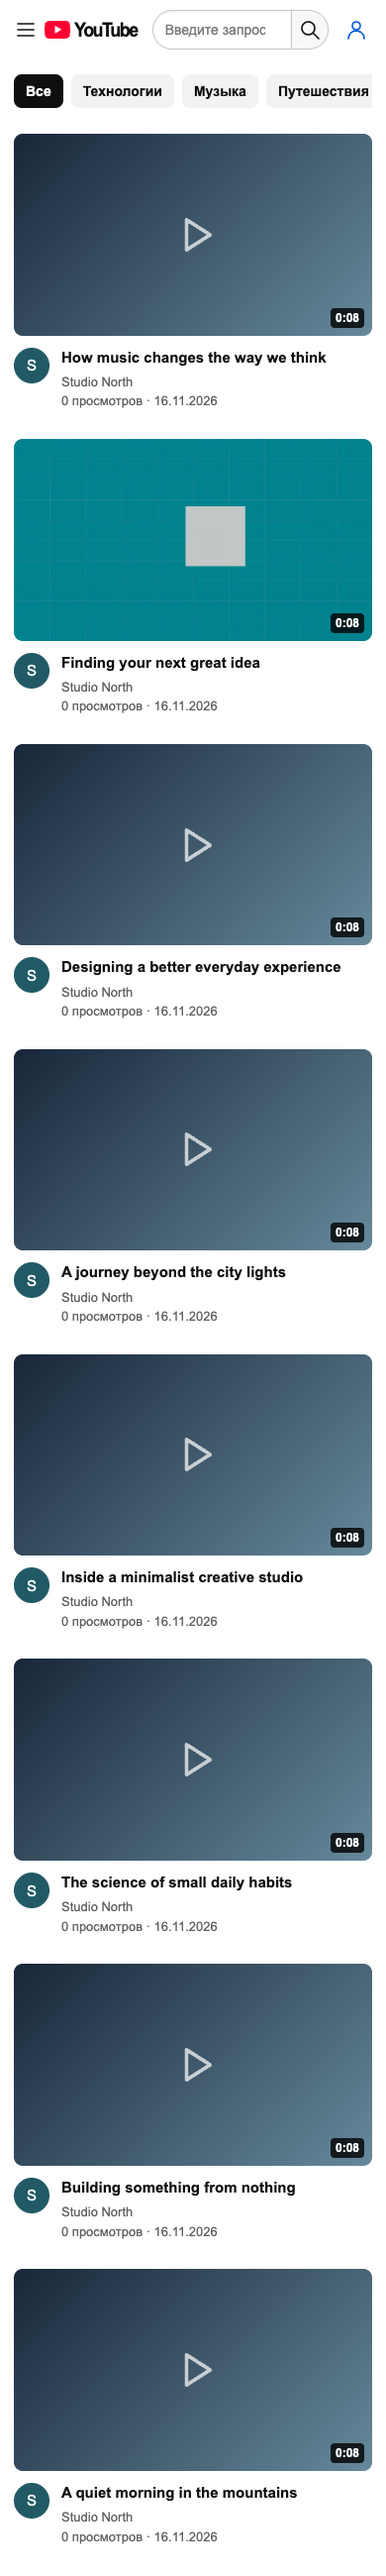
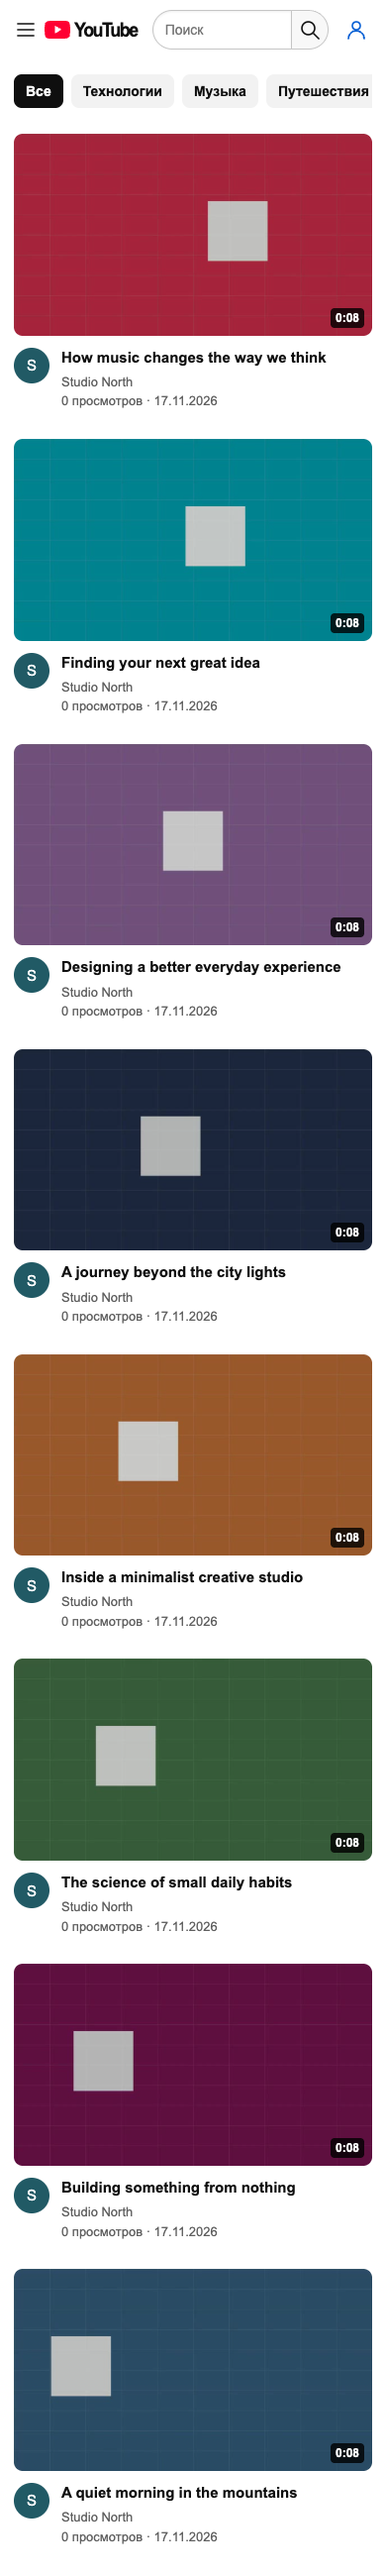
feat: publish temporary HTTPS demo and verify complete browser rendering

diff --git a/frontend/index.html b/frontend/index.html
@@ -1,3 +1,3 @@
 <!doctype html>
 <html lang="ru"><head><meta charset="UTF-8"><meta name="viewport" content="width=device-width,initial-scale=1"><meta name="theme-color" content="#ffffff"><title>YouTube — видео</title><link rel="stylesheet" href="/static/style.css"></head>
-<body><a class="skip" href="#main">К содержимому</a><header class="header"><div class="brand-group"><button class="icon-btn" id="menu" aria-label="Открыть меню" aria-controls="sidebar" aria-expanded="false"></button><a class="logo" href="#/" aria-label="YouTube, главная"><svg viewBox="0 0 90 63" aria-hidden="true"><path fill="#f03" d="M88 10c-1-5-5-8-10-9C66 0 45 0 45 0S24 0 12 1C7 2 3 5 2 10 0 20 0 31 0 31s0 12 2 22c1 5 5 8 10 9 12 1 33 1 33 1s21 0 33-1c5-1 9-4 10-9 2-10 2-22 2-22s0-11-2-21Z"/><path fill="#fff" d="m36 45 24-14-24-14z"/></svg><strong>YouTube</strong><sup>RU</sup></a></div><form class="search" id="search-form" role="search"><input id="search-input" type="search" placeholder="Введите запрос" aria-label="Поиск видео" maxlength="200"><button aria-label="Найти" id="search-button"></button></form><div class="header-actions" id="header-actions"></div></header><aside class="sidebar" id="sidebar" aria-label="Основная навигация"></aside><button id="nav-overlay" aria-label="Закрыть меню" tabindex="-1"></button><main id="main" tabindex="-1"></main><div id="toast" role="status" aria-live="polite"></div><dialog id="dialog"><button class="icon-btn dialog-close" aria-label="Закрыть" id="dialog-close">×</button><div id="dialog-body"></div></dialog><script src="/static/app.js" defer></script></body></html>
+<body><a class="skip" href="#main">К содержимому</a><header class="header"><div class="brand-group"><button class="icon-btn" id="menu" aria-label="Открыть меню" aria-controls="sidebar" aria-expanded="false"></button><a class="logo" href="#/" aria-label="YouTube, главная"><svg viewBox="0 0 90 63" aria-hidden="true"><path fill="#f03" d="M88 10c-1-5-5-8-10-9C66 0 45 0 45 0S24 0 12 1C7 2 3 5 2 10 0 20 0 31 0 31s0 12 2 22c1 5 5 8 10 9 12 1 33 1 33 1s21 0 33-1c5-1 9-4 10-9 2-10 2-22 2-22s0-11-2-21Z"/><path fill="#fff" d="m36 45 24-14-24-14z"/></svg><strong>YouTube</strong><sup>RU</sup></a></div><form class="search" id="search-form" role="search"><input id="search-input" type="search" placeholder="Поиск" aria-label="Поиск видео" maxlength="200"><button aria-label="Найти" id="search-button"></button></form><div class="header-actions" id="header-actions"></div></header><aside class="sidebar" id="sidebar" aria-label="Основная навигация"></aside><button id="nav-overlay" aria-label="Закрыть меню" tabindex="-1"></button><main id="main" tabindex="-1"><div class="loading" role="status"><span class="spinner"></span><p>Загрузка…</p></div></main><div id="toast" role="status" aria-live="polite"></div><dialog id="dialog"><button class="icon-btn dialog-close" aria-label="Закрыть" id="dialog-close">×</button><div id="dialog-body"></div></dialog><script src="/static/app.js" defer></script></body></html>

diff --git a/frontend/tests/e2e.spec.js b/frontend/tests/e2e.spec.js
@@ -11,6 +11,16 @@ async function capture(page,options){
   await page.screenshot(options);
 }
 
+async function waitForHomeCards(page){
+  const cards=page.locator('.video-grid .video-card');
+  await expect(cards.first()).toBeVisible();
+  const count=await cards.count();
+  // Exercise normal scrolling so lazy thumbnails below the viewport load too.
+  await cards.last().scrollIntoViewIfNeeded();
+  await expect.poll(()=>page.locator('.video-grid img').evaluateAll((images,expected)=>images.length===expected&&images.every(i=>i.complete&&i.naturalWidth>0),count)).toBe(true);
+  await page.evaluate(()=>window.scrollTo(0,0));
+}
+
 // Uses actual backend, database, object storage and ffmpeg worker. No request mocks.
 test('registration → upload → playback → like/comment → privacy and channel', async ({page, browser}, testInfo) => {
   const failures=[];
@@ -88,6 +98,7 @@ test('registration → upload → playback → like/comment → privacy and chan
     await page.locator('#dialog').getByRole('button',{name:'Создать',exact:true}).click();
     await expect(page.getByRole('heading',{name:`Playlist ${unique}`})).toBeVisible();
     await page.goto('/');
+    await waitForHomeCards(page);
     await capture(page,{path:testInfo.outputPath('home-desktop.png'),fullPage:true});
     await page.getByLabel('Поиск видео',{exact:true}).fill('unlikely-no-video-'+unique);
     await page.getByRole('button',{name:'Найти',exact:true}).click();
@@ -101,6 +112,7 @@ test('registration → upload → playback → like/comment → privacy and chan
 
 test('mobile home has no horizontal overflow',async({page},testInfo)=>{
   await page.setViewportSize({width:390,height:844});await page.goto('/');
+  await waitForHomeCards(page);
   await expect(page.locator('.loading')).toHaveCount(0);
   expect(await page.evaluate(()=>document.documentElement.scrollWidth<=window.innerWidth)).toBe(true);
   await capture(page,{path:testInfo.outputPath('home-mobile.png'),fullPage:true});
@@ -132,7 +144,11 @@ test('moderator and administrator screens enforce roles and update sessions',asy
     await page.goto('/#/admin');
     await expect(page.getByRole('heading',{name:'Доступ ограничен'})).toBeVisible();
     expect((await page.request.get('/api/admin/users')).status()).toBe(403);
+    const loggedOut=page.waitForResponse(r=>r.url().endsWith('/api/auth/logout')&&r.request().method()==='POST');
     await page.locator('#sidebar').getByRole('button',{name:'Выйти',exact:true}).click();
+    expect((await loggedOut).status()).toBe(204);
+    await expect(page.locator('#header-actions').getByRole('button',{name:'Войти'})).toBeVisible();
+    expect((await page.request.get('/api/auth/me')).status()).toBe(401);
     await login('admin@demo.local');
     await page.locator('#sidebar').getByRole('link',{name:'Пользователи',exact:true}).click();
     await expect(page.getByRole('heading',{name:'Управление пользователями'})).toBeVisible();

diff --git a/docs/DEMO.md b/docs/DEMO.md
@@ -1,0 +1,47 @@
+# Временное рабочее демо
+
+[https://forest-crm-imagine-downloading.trycloudflare.com](https://forest-crm-imagine-downloading.trycloudflare.com)
+
+Демо опубликовано и проверено 17 ноября 2026 года. Можно смотреть открытые
+видео без входа. Для загрузки, комментариев, лайков и плейлистов создайте свой
+тестовый аккаунт через кнопку «Войти» → «Создать аккаунт».
+
+Это бесплатная временная ссылка Cloudflare Quick Tunnel: она работает, пока
+Mac, Docker VM и процесс cloudflared включены и подключены к интернету.
+После остановки туннеля ссылка прекращает работать; следующий запуск выдаст
+другой адрес. Это не постоянный хостинг и не обещание доступности 24/7.
+Описание сервиса: [https://developers.cloudflare.com/tunnel/get-started/quick-tunnels/](https://developers.cloudflare.com/tunnel/get-started/quick-tunnels/).
+
+В демо предел одного файла — **20 MiB**. PostgreSQL и MinIO не опубликованы
+наружу; посетитель обращается только к API приложения через HTTPS. Включены
+Secure/HttpOnly cookie, проверка Origin и текущие ACL. Нативные AI-сессии,
+`.env` и `.git` не доступны через сайт. Пароли администратора и модератора
+не опубликованы: они хранятся только в приватном `.env` развертывания.
+
+Проверено через этот внешний HTTPS-адрес: HTTP smoke с ролями и приватностью,
+загрузка/кодирование/воспроизведение/перемотка, 3 браузерных сценария,
+Secure/HttpOnly/SameSite cookie, выход из аккаунта, отклонение чужого Origin.
+Семь снимков desktop/mobile проверил агент GPT-6 Luna.
+
+## Как повторить на своём развертывании
+
+1. Разверните и заполните демо: `bash scripts/deploy.sh`.
+2. Установите cloudflared из официального источника и запустите:
+
+```sh
+cloudflared tunnel --no-autoupdate --protocol http2 --url http://127.0.0.1:8080
+```
+
+3. В приватном `.env` задайте полученный адрес как `PUBLIC_ORIGIN`,
+   `SEED_BASE_URL` и `SMOKE_BASE_URL`; включите `COOKIE_SECURE=true`.
+4. Пересоздайте app/worker без удаления томов:
+
+```sh
+docker compose up -d --no-build --wait app worker
+```
+
+При нестандартном порте используйте фактический `PORT` из `.env`.
+При нестандартном имени Compose-проекта передавайте его явно.
+Сначала заполняйте локальный стек, затем включайте HTTPS-cookie; повторный seed
+с HTTPS-cookie должен обращаться через `SEED_BASE_URL` с внешним HTTPS-адресом.
+Остановка cloudflared закрывает внешнюю ссылку, сохраняя данные в Docker-томах.

diff --git a/.agents/agents/team.md b/.agents/agents/team.md
@@ -20,3 +20,9 @@ Screenshot review agent: 01a1e538-54c1-7243-98da-d87ad18b820d, explicitly gpt-6-
 Agents return changes without committing. Root reviews and creates milestone commits. Root and non-screenshot agents use the inherited session model.
 
 The screenshot review was repeated after fixing watch/sidebar overlap and mobile role administration. Seven final rendered screenshots were inspected with no remaining critical visual findings. Native tool calls and reports belong to the unchanged session snapshots; this file is configuration/documentation, not dialogue.
+
+## Demo continuation on 2026-11-17
+
+Worker/runtime continuation agent: `worker_runtime`, session `01a1ea3d-365c-7d53-ba8d-c0a2da0c56ed`; inherited model, owns worker/DELETE lifecycle and real PostgreSQL/S3/FFmpeg regressions.
+Public HTTPS screenshot reviewer: `demo_screenshot_review`, session `01a1ea4c-dae7-7b92-9e27-60a261ff295f`; explicitly gpt-6-luna, reviews seven actual screenshots and does not edit source.
+Infrastructure agent resumed fixture work and created the validated cover-first MP4 generator. Root owns tunnel/deployment settings, browser tests, Git commits and final packaging. Native snapshots are selected explicitly; generated evidence is not a dialogue export.

diff --git a/ai-sessions/README.md b/ai-sessions/README.md
@@ -1,6 +1,6 @@
 # Native dialogue provenance
 
-The deliverable ZIP includes four JSONL files collected here as unchanged snapshots from the native Codex session store, explicitly selected for this continuation and its three agents. The working directory of this chat differs from the original repository, so session IDs are selected explicitly rather than broadening automatic discovery to unrelated chats.
+The deliverable ZIP includes native JSONL files collected here as unchanged snapshots from the native Codex session store, explicitly selected for this continuation and its participating agents. The working directory of this chat differs from the original repository, so session IDs are selected explicitly rather than broadening automatic discovery to unrelated chats.
 
 The original implementation conversation before the Codex handoff is **missing**. The user confirmed that they do not have its export. No original dialogue has been reconstructed, and documentation/handoff notes are not dialogue exports. Therefore the archive cannot claim a complete export of every conversation used during the assignment.
 

diff --git a/README.md b/README.md
@@ -2,7 +2,11 @@
 
 Source: [https://github.com/VARAGer/youtube-clone](https://github.com/VARAGer/youtube-clone).
 
-Verified on clean Ubuntu 24.04: **36 API tests**, **3 real browser scenarios**,
+Temporary live demo: [https://forest-crm-imagine-downloading.trycloudflare.com](https://forest-crm-imagine-downloading.trycloudflare.com).
+Runs while the Mac and tunnel are online; uploads are limited to 20 MiB.
+See [demo access and lifetime](docs/DEMO.md).
+
+Verified on clean Ubuntu 24.04: **41 API tests**, **3 real browser scenarios**,
 PostgreSQL/S3/FFmpeg lifecycle and concurrency checks, and a complete
 backup/restore with matching database counts and video SHA-256.
 Hosted CI passed: [https://github.com/VARAGer/youtube-clone/actions/runs/43917380384](https://github.com/VARAGer/youtube-clone/actions/runs/43917380384).
